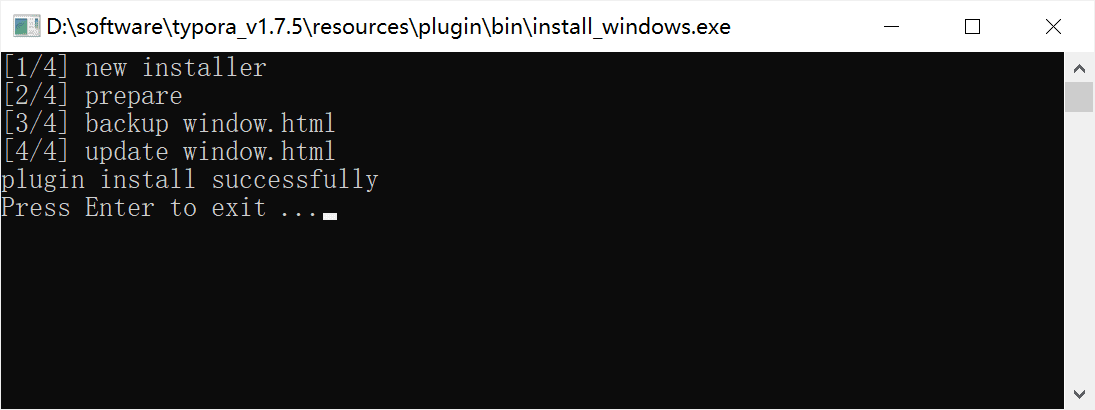
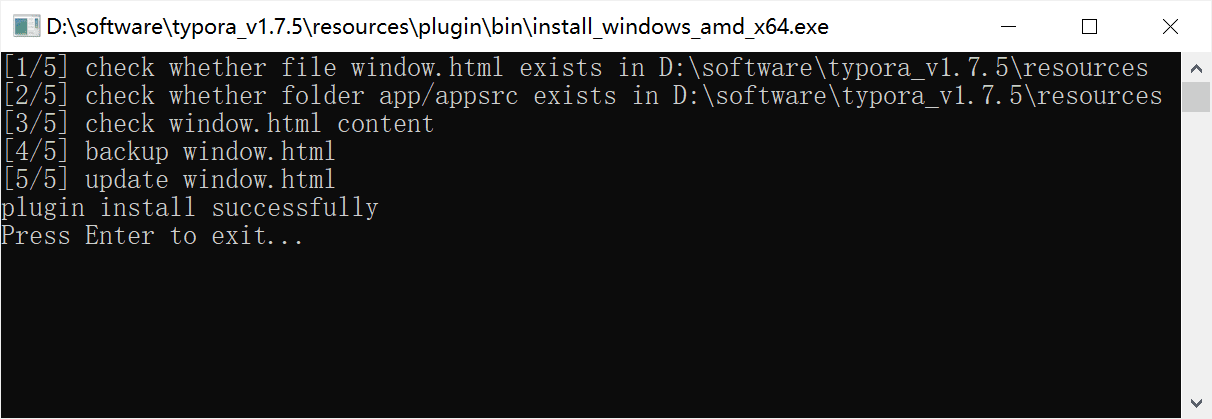
update filename

diff --git a/plugin/bin/报毒了怎么办.md b/plugin/bin/报毒了怎么办.md
@@ -1,4 +1,4 @@
-如果不信任 install_windows.exe 和 install_linux_amd_x64，有如下两种方法：
+如果不信任 `install_windows_amd_x64.exe` 和 `install_linux_amd_x64`，有如下两种方法：
 
 1. 找到目录下的 `install_windows.ps1` 文件，右键它，点击【使用 PowerShell 运行】。
 2. 本项目开放所有代码，可以 review 同目录下的 `install.c` 或者 `install.go` 文件并编译。

diff --git a/README.md b/README.md
@@ -91,7 +91,7 @@
 
 4. 进入文件夹 `A/plugin/bin/`
 
-   - 如果你是 Windows 系统，双击运行 `install_windows.exe`，如果看到下图，说明安装成功
+   - 如果你是 Windows 系统，双击运行 `install_windows_amd_x64.exe`，如果看到下图，说明安装成功
    
    - 如果你是 Linux 系统，以管理员运行 `install_linux.sh`，如果看到下图，说明安装成功
 
